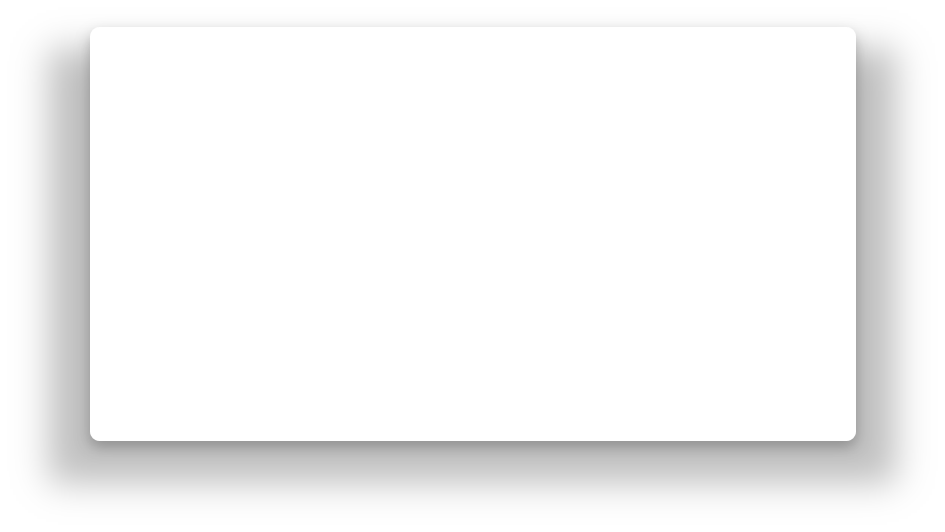
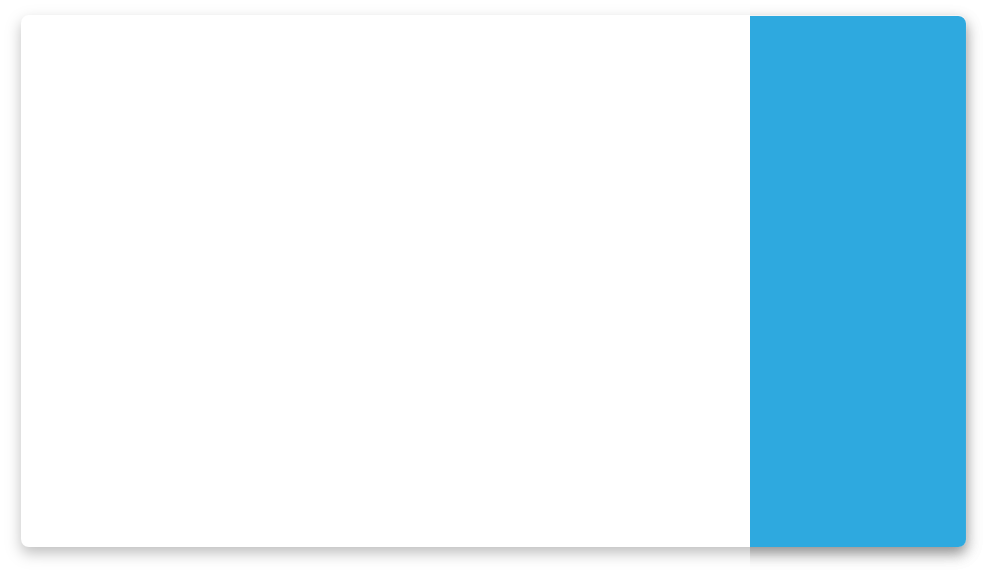
change view

diff --git a/popup.js b/popup.js
@@ -20,6 +20,7 @@ weekday[6]="Saturday";
 
 function showNowWeather(result) {
 	result = JSON.parse(result);
+
 	var id = result.weather[0].icon;
 	var img = "<img src='icons/"+id+".png'></img>";
 	document.getElementById("now_icon").innerHTML = img;
@@ -28,25 +29,52 @@ function showNowWeather(result) {
 	document.getElementById("now_week").innerHTML = weekday[d.getDay()];
 
 	var temp = result.main.temp;
-	document.getElementById("now_temp").innerHTML = Math.round(temp-273.15)+"<p>°</p>";
+	temp = Math.round(temp-273.15);
+	document.getElementById("now_temp").innerHTML = temp+"<p>℃</div>";
+	if(temp <= -10){
+		document.getElementById("now_temp").style.width = "160px";
+	}else if(temp>=0 && temp<=9){
+		document.getElementById("now_temp").style.width = "120px";
+	}else{
+		document.getElementById("now_temp").style.width = "140px";
+	}
 
 	var city = result.name;
 	document.getElementById("now_city").innerHTML = city;
+
+	var table = "<table>";
+	table += "<tr><td><img src='icons/humidity.png'></img></td><td>"+result.main.humidity+"%</td></tr>";
+	table += "<tr><td><img src='icons/windspeed.png'></img></td><td>"+Math.round(result.wind.speed)+"m/s</td></tr>";
+	table += "<tr><td><img src='icons/clouds.png'></img></td><td>"+result.clouds.all+"%</td></tr>";
+	// d = new Date(result.sys.sunrise*1000);
+	// table += "<tr><td><img src='icons/sunrise.png'></img></td><td>"+d+"</td></tr>";
+	// d = new Date(result.sys.sunset*1000);
+	// table += "<tr><td><img src='icons/sunset.png'></img></td><td>"+d+"</td></tr>";
+	table += "</table>";
+	document.getElementById("now").innerHTML = table;
 }
 
 function showHourlyWeather(result) {
 	result = JSON.parse(result);
 	var list = result.list;
 	var table = "<table>";
+	table += "<tr>";
 	for(var i in list){
-		table += "<tr>";
 		var id = list[i].weather[0].icon;
-		table += "<td><img src='icons/"+id+".png'></img></td>";
+		table += "<td><img src='icons/"+id+".png'></img></td>";	
+	}
+	table += "</tr>"
+	table += "<tr>";
+	for(var i in list){
 		var d = new Date(list[i].dt*1000);
 		table += "<td>"+d.getHours()+"h</td>";
-		table += "<td>"+Math.round(list[i].main.temp-273.15)+"°</td>";
-		table += "</tr>";
 	}
+	table += "</tr>";
+	table += "<tr>";
+	for(var i in list){
+		table += "<td>"+Math.round(list[i].main.temp-273.15)+"℃</td>";
+	}
+	table += "</tr>"
 	table += "</table>";
 	document.getElementById("hourly").innerHTML = table;
 }
@@ -69,7 +97,7 @@ function showDailyWeather(result){
 	table += "</tr>";
 	table += "<tr>";
 	for(var i = 1;i<list.length;i++){
-		table += "<td>"+Math.round(list[i].temp.min-273.15)+"°/"+Math.round(list[i].temp.max-273.15)+"°</td>";	
+		table += "<td>"+Math.round(list[i].temp.min-273.15)+"℃/"+Math.round(list[i].temp.max-273.15)+"℃</td>";	
 	}
 	table += "</tr>"
 	table += "</table>";

diff --git a/popup.css b/popup.css
@@ -5,22 +5,27 @@
 }
 
 body{
-	width: 620px;
-	height: 340px;
-	background-image: url(backgrounds/sunny.png);
-	background-size: 640px 360px;
-	background-repeat: no-repeat;
+	width: 320px;
 }
 
 #background {
 	position: relative;
 }
 
+#topbar {
+	height: 30px;
+	background-color: #2EA9DF;
+	text-align: center;
+	font-size: 20px;
+	color: white;
+	font-weight: lighter;
+}
+
 #now_week {
 	position: absolute;
 	z-index: 2;
-	left: 345px;
-	top: 35px;
+	left: 25px;
+	top: 50px;
 	font-size: 20px;
 	color: #0288D1;
 	font-weight: bold;
@@ -29,23 +34,24 @@ body{
 #now_temp {
 	position: absolute;
 	z-index: 2;
-	left: 420px;
-	top: 60px;
-	font-size: 60px;
-	float: right;
+	left: 70px;
+	top: 70px;
+	width: 160px;
+	font-size: 70px;
+	text-align: right;
 }
 
 #now_temp p {
-	font-size: 30px;
+	font-size: 15px;
 	float: right;
-	margin-top: 9px;
+	margin-top: 15px;
 }
 
 #now_city {
 	position: absolute;
 	z-index: 2;
-	left: 345px;
-	top: 140px;
+	left: 25px;
+	top: 165px;
 	font-size: 15px;
 	color: #877F6C;
 	font-weight: lighter;
@@ -54,8 +60,8 @@ body{
 #now_icon {
 	position: absolute;
 	z-index: 2;
-	left: 340px;
-	top: 65px;
+	left: 25px;
+	top: 85px;
 }
 
 #now_icon img {
@@ -63,11 +69,35 @@ body{
 	height: 70px;
 }
 
+#now {
+	position: absolute;
+	z-index: 2;
+	left: 243px;
+	top: 48px;
+	color: white;
+	text-align: left;
+	font-size: 15px;
+}
+
+/*#now table {
+	border: 1px solid;
+}*/
+
+#now td {
+	white-space: nowrap;
+	width: 30px;
+	height: 50px;
+}
+
+#now img {
+	width: 20px;
+	height: 20px;
+}
+
 #card1 {
 	position: absolute;
 	z-index: 1;
-	left: 300px;
-	top: 20px;
+	top: 35px;
 }
 
 #card1>img {
@@ -78,11 +108,21 @@ body{
 #card2 {
 	position: absolute;
 	z-index: 1;
-	left: 289px;
-	top: 180px;
+	top: 210px;
 }
 
 #card2>img {	
+	height: 120px;
+	width: 320px;
+}
+
+#card3 {
+	position: absolute;
+	z-index: 1;
+	top: 325px;
+}
+
+#card3>img {	
 	height: 120px;
 	width: 320px;
 }
@@ -95,10 +135,10 @@ table {
 
 #hourly {
 	position: absolute;
-	top: 29px;
-	left: 512px;
+	top: 225px;
+	left: 9px;
 	z-index: 2;
-	color: #FEDFE1;
+	color: #877F6C;
 }
 
 /*#hourly table {
@@ -106,20 +146,20 @@ table {
 }*/
 
 #hourly td {
-	width: 25px;
-	height: 28px;
+	width: 60px;
+	height: 30px;
 	white-space: nowrap;
 }
 
 #hourly img {
-	width: 15px;
-	height: 15px;
+	width: 30px;
+	height: 30px;
 }
 
 #daily {
 	position: absolute;
-	top: 205px;
-	left: 330px;
+	top: 340px;
+	left: 9px;
 	z-index: 2;
 	color: #877F6C;
 }
@@ -130,8 +170,8 @@ table {
 
 #daily td {
 	white-space: nowrap;
-	width: 65px;
-	height: 25px;
+	width: 75px;
+	height: 30px;
 }
 
 #daily img {

diff --git a/popup.html b/popup.html
@@ -6,20 +6,26 @@
 </head>
 <body>
 	<div id="background">
+		<p id="topbar">CardWeather</p>
+
+		<div id="card1">
+			<img src="cards/card1.png">
+		</div>
 		<div id="now_week"></div>
 		<div id="now_temp"></div>
 		<div id="now_city"></div>
 		<div id="now_icon"></div>
-
-		<div id="card1">
-			<img src="cards/card4.png">
-		</div>
-		<div id="hourly"></div>
-
+		<div id="now"></div>
+		
 		<div id="card2">
 			<img src="cards/card2.png">
 		</div>
-		<div id="daily">请稍等…</div>
+		<div id="hourly"></div>
+
+		<div id="card3">
+			<img src="cards/card3.png">
+		</div>
+		<div id="daily"></div>
 	</div>
 	<script src="popup.js"></script>
 </body>
